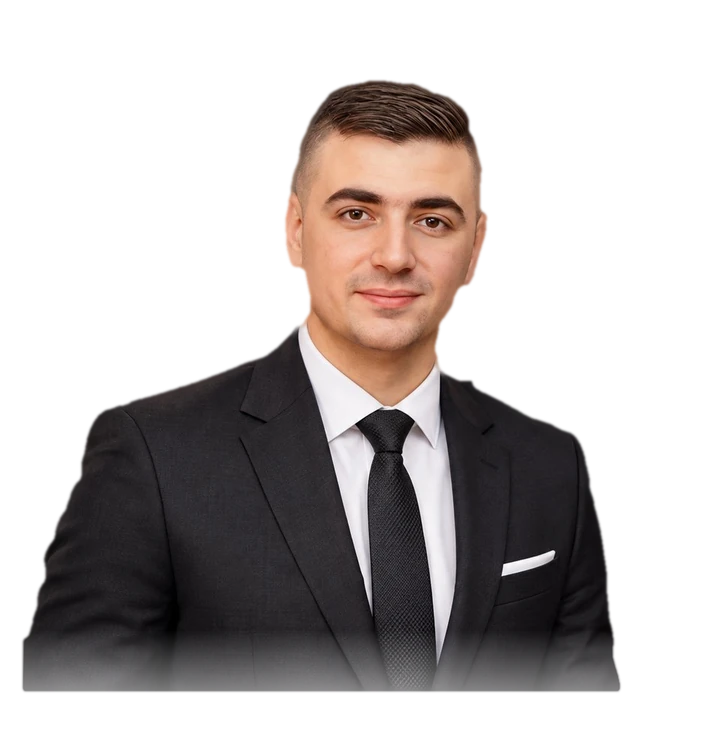
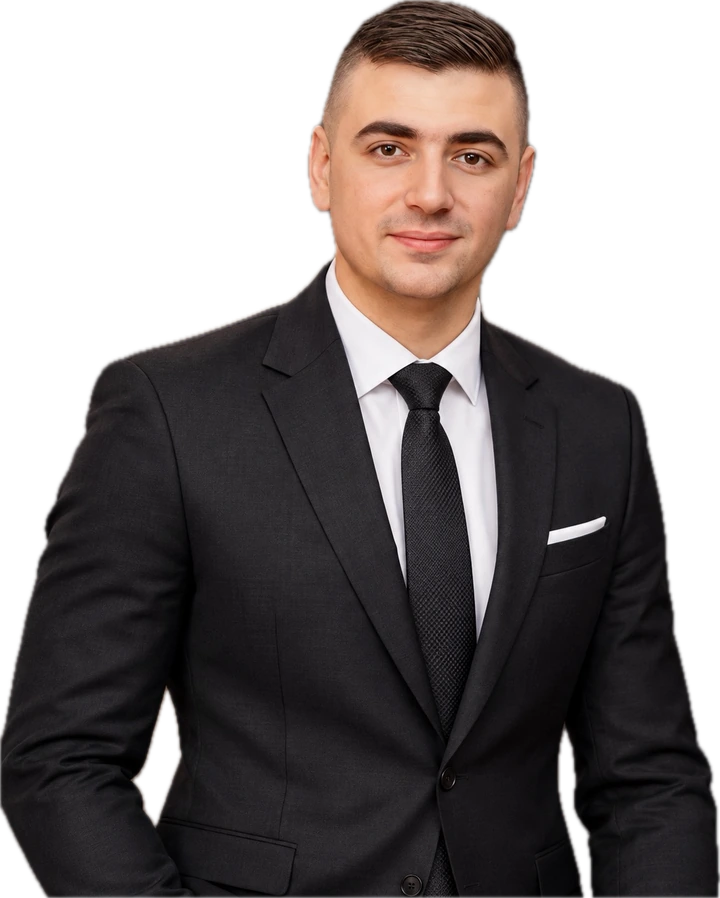
The closing band shows the advisor's own background-free picture
Owner, 26 Nov 2026 08:08: he removed the background himself and asked for his file to be used, then for the site to go
public. The picture is only resized (720 px wide).

Claude-Session: https://claude.ai/code/session_01FjdB245uduQeSC9BwUUbgC

diff --git a/build.py b/build.py
@@ -436,7 +436,7 @@ def page_head(title, lead, img=None, alt='', movie=None, lang='el', trail=(), ki
 def cta_band(lang):
     el = lang == 'el'
     return f'''<section class="cta-band on-dark"><div class="wrap">
-<figure class="cta-band__me"><img src="/assets/img/giannis-farazis-cutout.webp" alt="{'Ο Γιάννης Φαραζής, Ασφαλιστικός Σύμβουλος' if el else 'Giannis Farazis, Insurance Advisor'}" width="720" height="756" loading="lazy" decoding="async"></figure>
+<figure class="cta-band__me"><img src="/assets/img/giannis-farazis-cutout.webp" alt="{'Ο Γιάννης Φαραζής, Ασφαλιστικός Σύμβουλος' if el else 'Giannis Farazis, Insurance Advisor'}" width="720" height="898" loading="lazy" decoding="async"></figure>
 <div><h2>{'Μια πρώτη συζήτηση, χωρίς δέσμευση' if el else 'A first conversation, with no commitment'}</h2>
 <p>{'Καλέστε, στείλτε μήνυμα στο WhatsApp ή αφήστε τα στοιχεία σας και θα σας καλέσω εγώ.' if el else 'Call, send a WhatsApp message, or leave your details and I will call you.'}</p>
 {actions(lang, f'<a class="btn btn-link" href="{url("contact", lang)}">{"Φόρμα επικοινωνίας" if el else "Contact form"}{ICON["arrow"]}</a>')}</div>

diff --git a/README.md b/README.md
@@ -54,7 +54,7 @@ Personal website of Giannis Farazis, Insurance Advisor (Nicosia, Cyprus). Greek 
   joined boxes (`[data-deck]` in `build.py`, `home.js`; printed hidden, so without scripts every section shows; on phones the
   row is drawn sideways); «Μικρές ιστορίες ζωής» stays in view under them. The guide cards carry stills of our own films
   (`assets/img/home/still-*.webp` — a site photo may stand on one page only). The closing band shows the advisor cut out of
-  his second portrait (`assets/img/giannis-farazis-cutout.webp`, made locally with OpenCV GrabCut) instead of one more logo.
+  the advisor himself (`assets/img/giannis-farazis-cutout.webp`: his own background-free picture, which he supplied on 26 Nov 2026 — only resized here) instead of one more logo.
 - The redesign «Πύλη» (25 Nov 2026; the owner turned down a bright-blue try the same day: premium, one palette that
   holds the whole site together, film across the whole top, shapes of its own, not a blog). `assets/css/next.css` +
   `assets/js/fx.js` on every page, after site.css; they stay after Christmas. One night colour, one warm ivory, one
